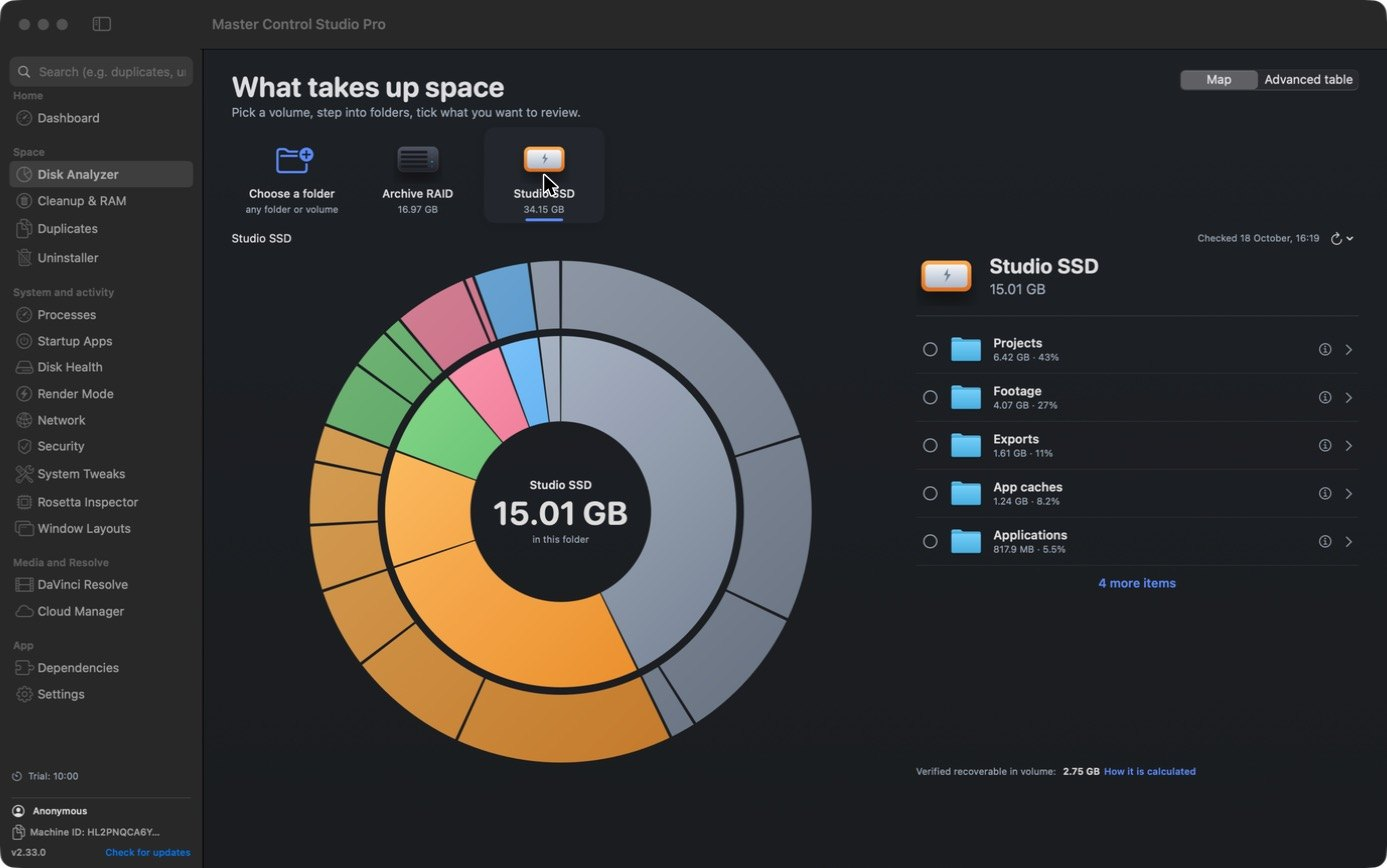
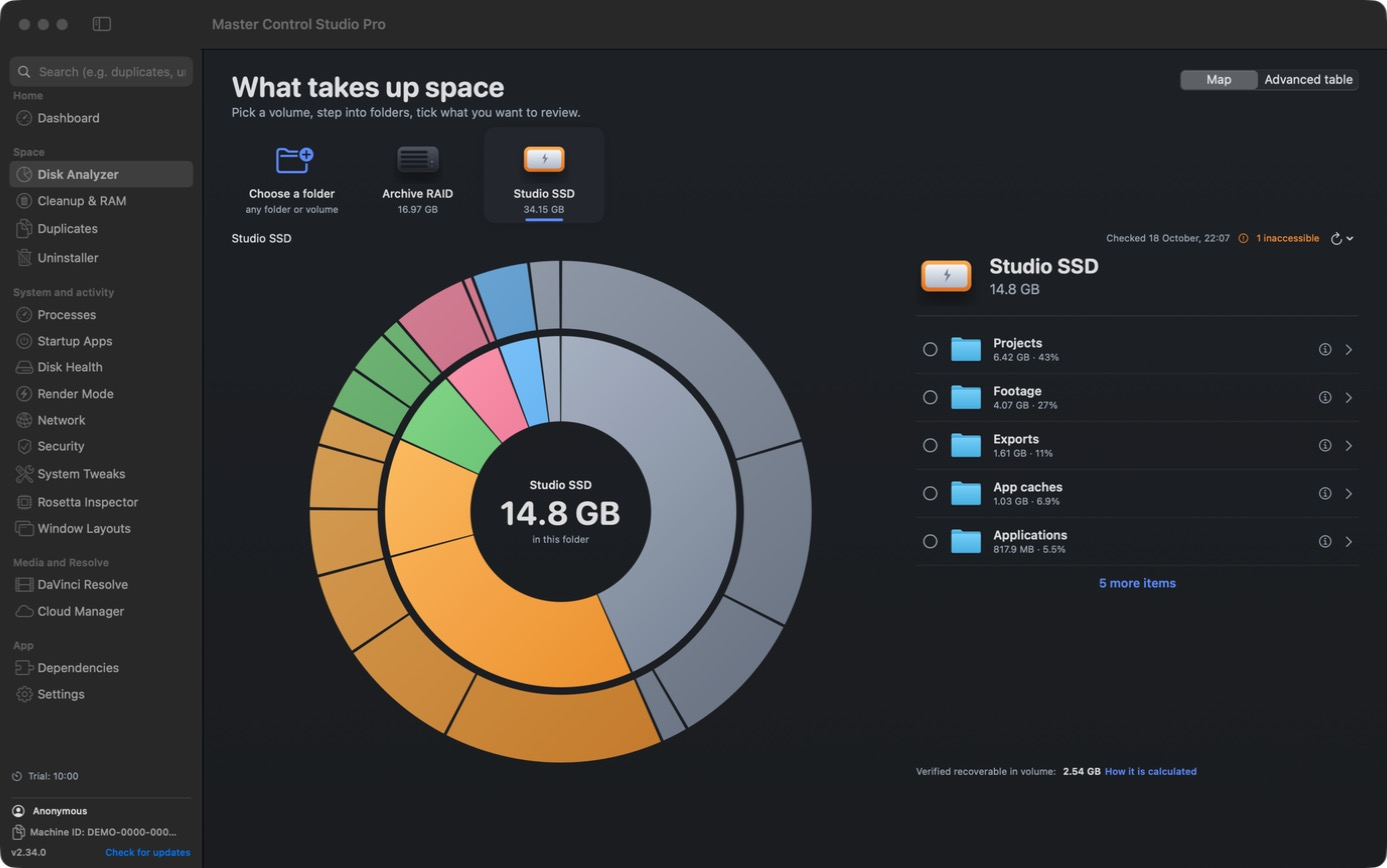
Studio Glass: Acasă și Analiză Disc recompuse, mesaje de eroare vizibile, Machine ID sintetic în materialele demonstrative, capturi curate

diff --git a/Sources/MacMasterControlPro/AccessCoordinator.swift b/Sources/MacMasterControlPro/AccessCoordinator.swift
@@ -89,7 +89,7 @@ struct AccessPanel: View {
                     Button { NSWorkspace.shared.open(WhatsAppLink.url(text: access.activationRequestText())) } label: { Label(L.x("Cere o licență", "Request a licence", "Solicitar una licencia"), systemImage: "message") }
                         .buttonStyle(.borderedProminent).tint(Studio.accent)
                     Button(L.x("Deschide pagina produsului", "Open the product page", "Abrir la página del producto")) { NSWorkspace.shared.open(URL(string: "https://gordas.dev/mac-master-control-pro/")!) }
-                    Button(L.x("Copiază Machine ID", "Copy Machine ID", "Copiar Machine ID")) { NSPasteboard.general.clearContents(); NSPasteboard.general.setString(MachineID.display, forType: .string) }
+                    Button(L.x("Copiază Machine ID", "Copy Machine ID", "Copiar Machine ID")) { NSPasteboard.general.clearContents(); NSPasteboard.general.setString(DemoHooks.machineID ?? MachineID.display, forType: .string) }
                     Button(L.x("Copiază cererea", "Copy request", "Copiar solicitud")) { NSPasteboard.general.clearContents(); NSPasteboard.general.setString(access.activationRequestText(), forType: .string) }
                 }
                 HStack {

diff --git a/Sources/MacMasterControlPro/DemoHooks.swift b/Sources/MacMasterControlPro/DemoHooks.swift
@@ -11,6 +11,8 @@ enum DemoHooks {
     static var language: String? { env("MCSP_DEMO_LANG") }
     static var theme: String? { env("MCSP_DEMO_THEME") }
     static var page: String? { env("MCSP_DEMO_PAGE") }
+    /// Machine ID sintetic în materialele demonstrative: capturile publice nu conțin identificatorul real al calculatorului.
+    static var machineID: String? { language != nil ? "DEMO-0000-0000" : nil }
     /// Scenariu de captură pentru Analiză Disc (profil izolat): volum de scanat, cale de scanat (progres/eroare), foldere de deschis, elemente de bifat, foaia de revizuire, tabel avansat.
     static var scanVolume: String? { env("MCSP_DEMO_SCAN") }
     static var scanPath: String? { env("MCSP_DEMO_SCAN_PATH") }

diff --git a/Sources/MacMasterControlPro/SidebarFooterView.swift b/Sources/MacMasterControlPro/SidebarFooterView.swift
@@ -12,7 +12,7 @@ struct SidebarFooterView: View {
     @State private var isCheckingUpdate = false
     @State private var showActivation = false
 
-    private var machineID: String { MachineID.display }
+    private var machineID: String { DemoHooks.machineID ?? MachineID.display }
 
     var body: some View {
         VStack(alignment: .leading, spacing: 6) {

diff --git a/CHANGELOG.md b/CHANGELOG.md
@@ -15,6 +15,7 @@
 - Curățarea mută în Coș datele personale (copii iOS, atașamente Mail) în loc să le șteargă definitiv.
 
 ### Fixed
+- Analiza de disc arată acum un mesaj clar când folderul sau volumul ales nu există, nu poate fi citit sau o ștergere eșuează (înainte revenea mut la selector).
 - Expirarea probei nu mai șterge setările, conturile sau licența; resetarea configurației este o acțiune separată, cu copie de siguranță.
 
 ## v2.33.0 (2026-09-20) — Dezinstalare din aplicație
